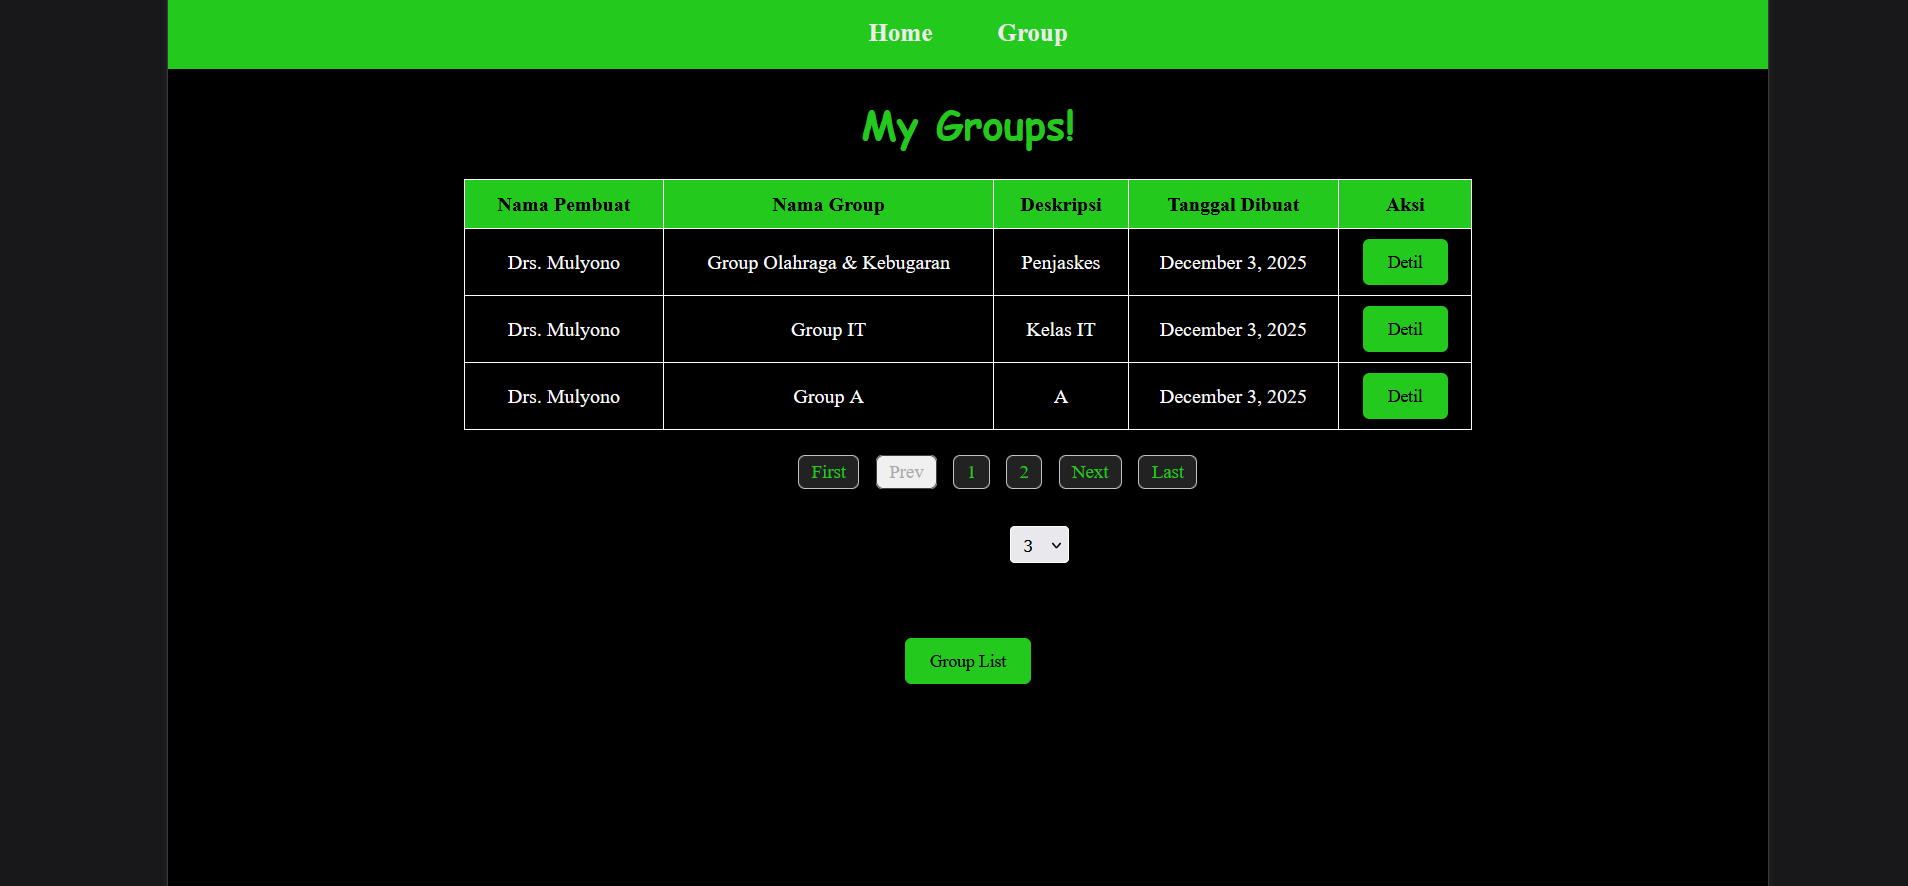
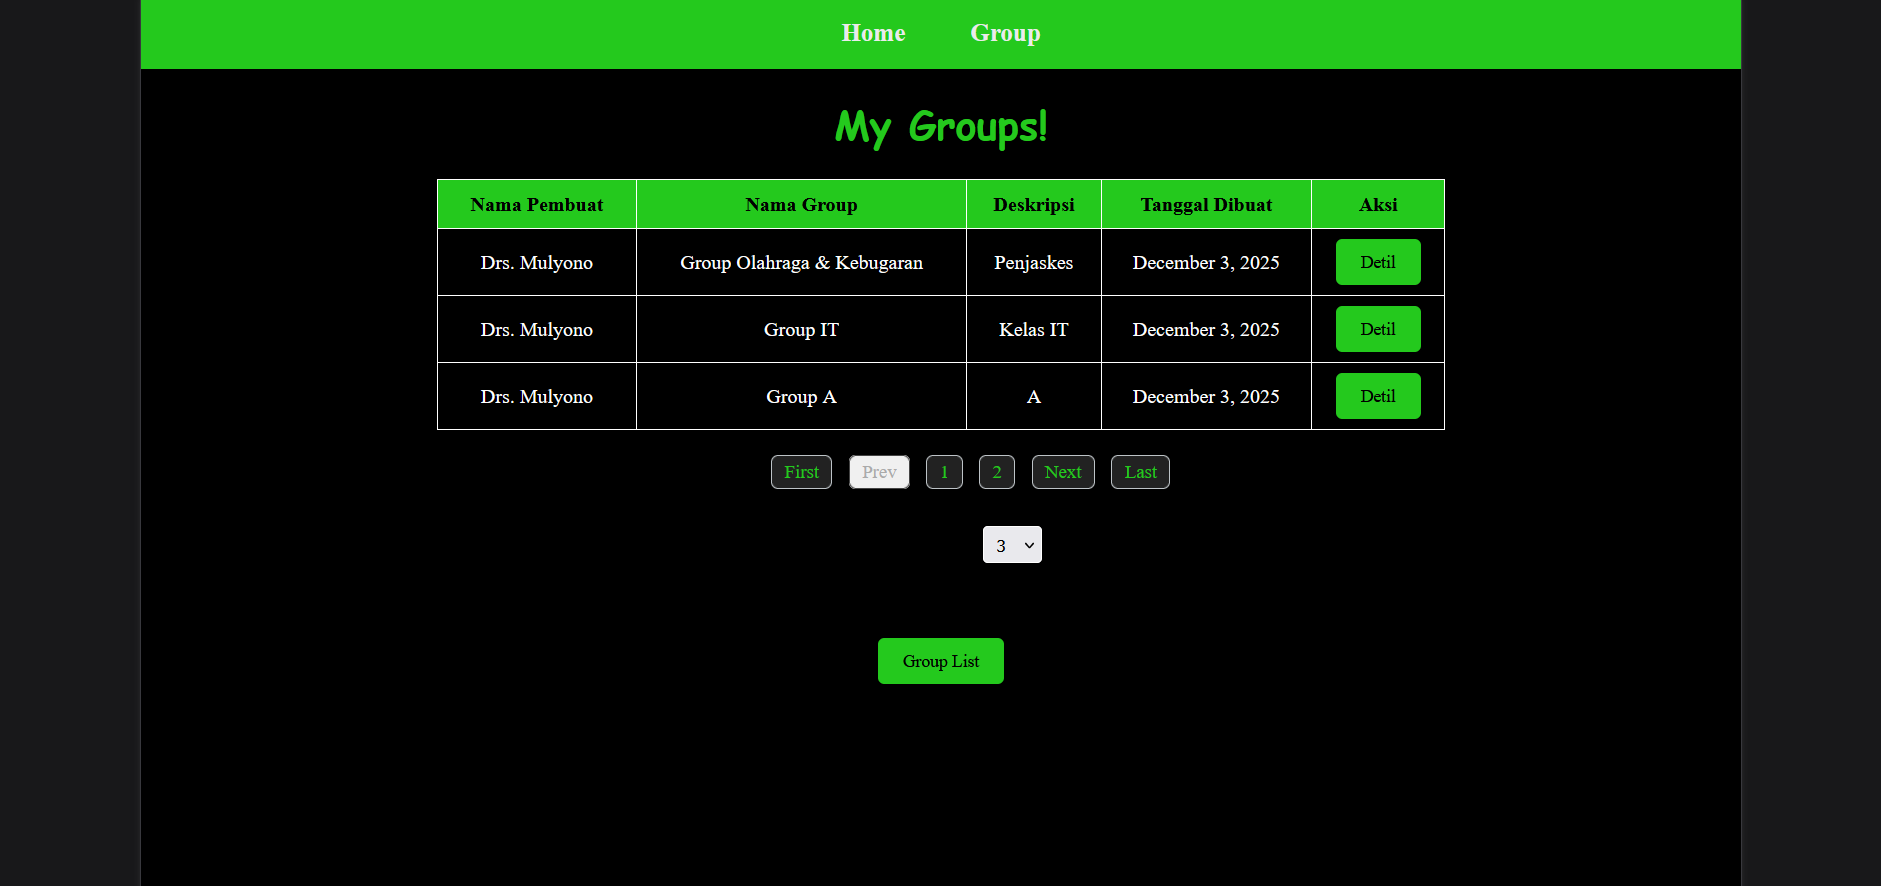
update //01

diff --git a/index.html b/index.html
@@ -1139,32 +1139,29 @@
 
                 <!-- PROJECT 04 -->
                 <div class="project-card reveal">
-                    <div class="project-img">
-
-                        <div class="project-img-placeholder">
-                            <div class="progress-badge">
-                                <img src="https://upload.wikimedia.org/wikipedia/commons/d/dd/Loading_spinner.svg"
-                                    alt="Loading">
-
-                                <span>IN PROGRESS</span>
-                            </div>
+                    <div class="project-img" data-slider>
+                        <div class="img-slides">
+                            <img src="bukti/IIR/IIR.png" alt="IIR 1">
+                            <img src="bukti/IIR/IIR2.png" alt="IIR 2">
                         </div>
-                        <span class="project-img-badge">Project Photo</span>
+                        <button class="img-btn img-prev">&#8249;</button>
+                        <button class="img-btn img-next">&#8250;</button>
+                        <div class="img-dots"></div>
                     </div>
                     <div class="project-info">
                         <div class="project-tags">
-                            <span class="p-tag">Tag</span>
-                            <span class="p-tag">Tag</span>
-                            <span class="p-tag">Tag</span>
+                            <span class="p-tag">Python</span>
                         </div>
-                        <h3 class="project-title">Lorem Ipsum</h3>
-                        <p class="project-desc">Lorem ipsum dolor sit amet consectetur adipisicing elit.
-                            Modi, natus minus reiciendis eum sapiente beatae distinctio nesciunt!
-                            Labore ipsa ducimus repellat nostrum, eius fugiat, officia rem sequi,
-                            reprehenderit eligendi distinctio?.</p>
-                        <a href="#" class="project-link">On Progress <span>&#8594;</span></a>
+                        <h3 class="project-title">Journal Information Retrieval System</h3>
+                        <p class="project-desc">
+                            An information retrieval application built with Android Studio featuring journal crawling
+                            from Google Scholar and similarity-based search results according to user-defined keywords.
+                        </p>
+                        <a href="https://github.com/JosephXela/information-retrieval-journal" class="project-link"
+                            target="_blank">View Project <span>&#8594;</span></a>
                     </div>
                 </div>
+
             </div>
 
             <button class="carousel-btn next" aria-label="Next">&#8250;</button>
